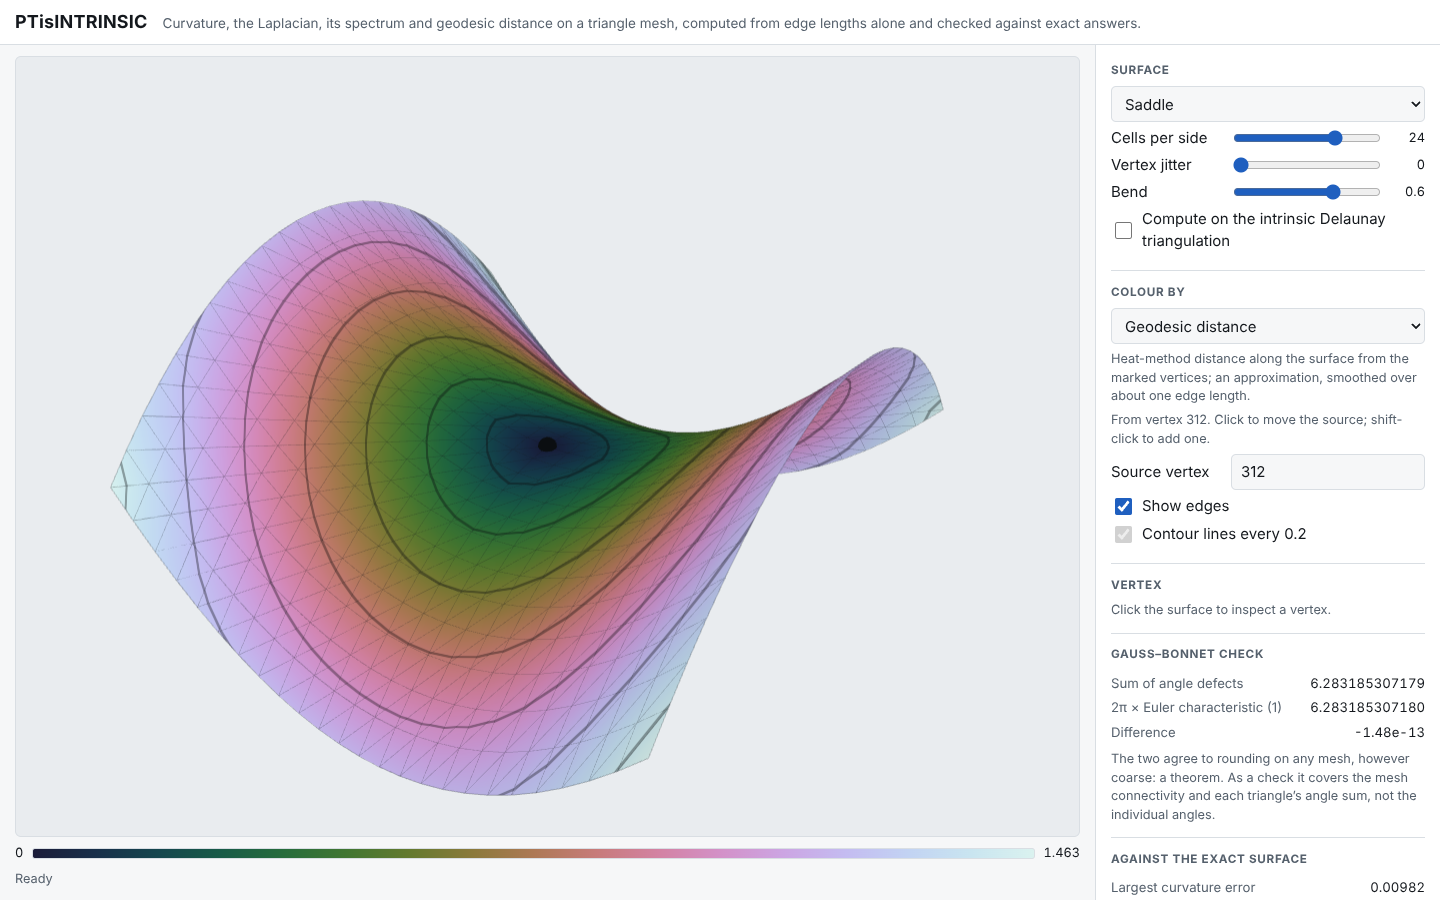
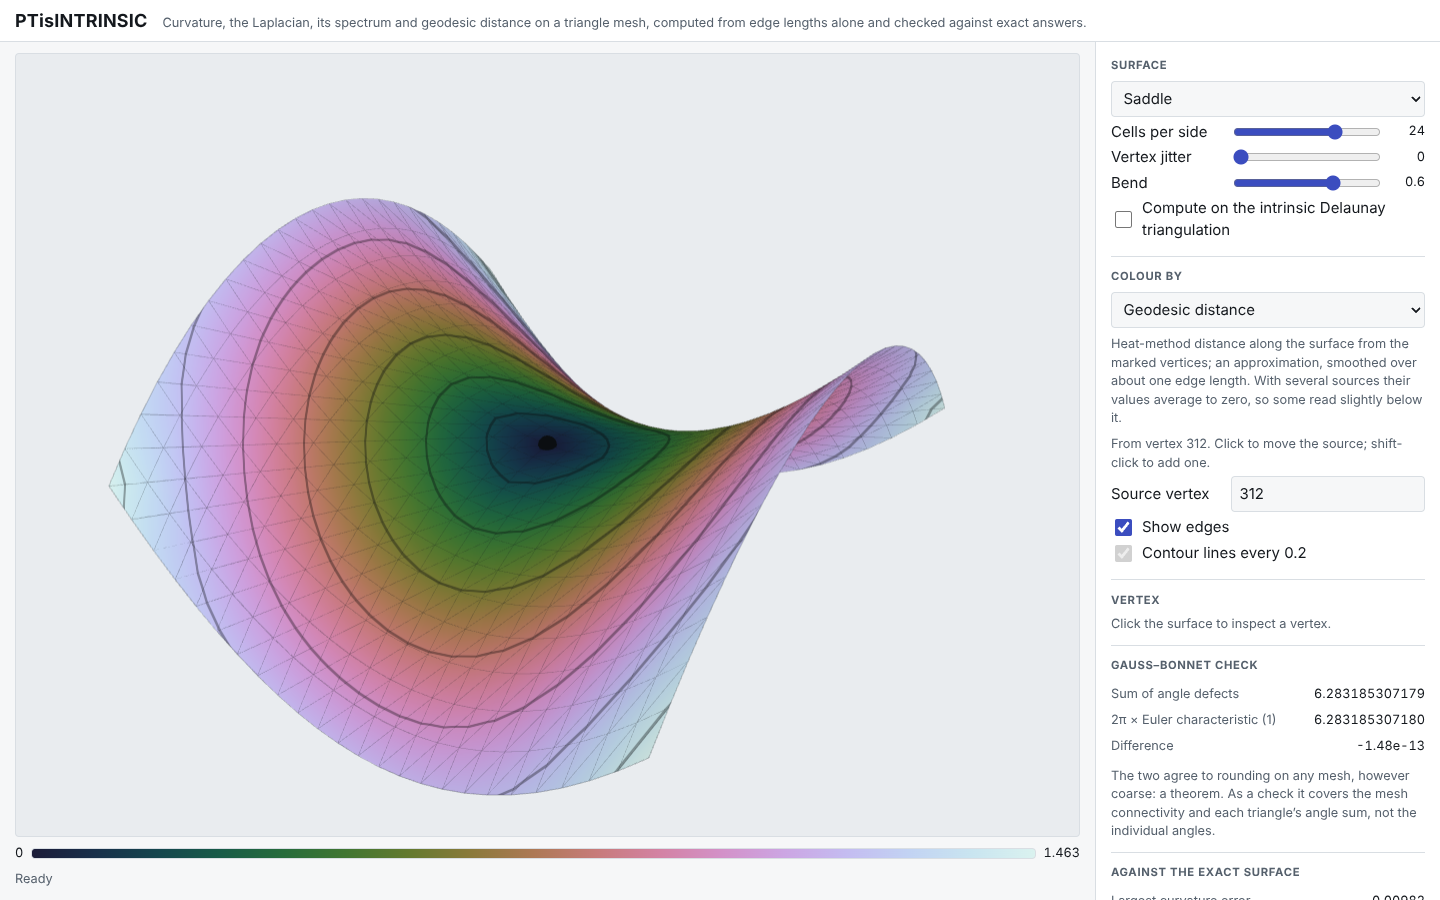
Put the stylesheet on one radius, type scale and spacing scale
The accent is now the cool end of the diverging colour map, and the
stylesheet says why the layout and the system typeface were chosen. The
README screenshot is retaken.

Claude-Session: https://claude.ai/code/session_018DZH5v2KzWCQaHqtZ7aifh

diff --git a/src/app/styles.css b/src/app/styles.css
@@ -1,3 +1,8 @@
+/*
+ * Laid out like a desktop analysis tool (ParaView, a plotting window): the picture takes the
+ * room and the numbers sit in a narrow side panel. The typeface is the platform's own UI font:
+ * a tool with no brand to carry, and nothing to download before the first number shows.
+ */
 :root {
   color-scheme: light dark;
   --ink: light-dark(#14181d, #e9edf1);
@@ -5,8 +10,21 @@
   --paper: light-dark(#f6f7f8, #101317);
   --card: light-dark(#ffffff, #181c21);
   --rule: light-dark(#d9dee3, #2b323a);
-  --accent: light-dark(#1f5fbf, #7fb0ff);
+  /* The cool end of the diverging colour map (colormap.ts), halfway to white in dark mode. */
+  --accent: light-dark(#3b4dbf, #9da6df);
   --viewport: light-dark(#e9ecef, #0b0d10);
+
+  --radius: 4px;
+  --space-1: 0.25rem;
+  --space-2: 0.5rem;
+  --space-3: 0.75rem;
+  --space-4: 1rem;
+  --space-5: 1.5rem;
+  --space-6: 2rem;
+  --text-label: 0.75rem;
+  --text-small: 0.85rem;
+  --text-title: 1.2rem;
+
   font-family:
     system-ui,
     -apple-system,
@@ -40,22 +58,22 @@ body {
   display: flex;
   flex-wrap: wrap;
   align-items: baseline;
-  gap: 0.25rem 1rem;
-  padding: 0.6rem 1rem;
+  gap: var(--space-1) var(--space-4);
+  padding: var(--space-2) var(--space-4);
   border-bottom: 1px solid var(--rule);
   background: var(--card);
 }
 
 h1 {
   margin: 0;
-  font-size: 1.2rem;
+  font-size: var(--text-title);
   letter-spacing: 0.01em;
 }
 
 .masthead p {
   margin: 0;
   color: var(--muted);
-  font-size: 0.9rem;
+  font-size: var(--text-small);
 }
 
 .stage {
@@ -63,8 +81,8 @@ h1 {
   display: flex;
   flex-direction: column;
   min-height: 0;
-  padding: 0.75rem 1rem;
-  gap: 0.5rem;
+  padding: var(--space-3) var(--space-4);
+  gap: var(--space-2);
 }
 
 .viewport {
@@ -72,7 +90,7 @@ h1 {
   flex: 1;
   min-height: 0;
   border: 1px solid var(--rule);
-  border-radius: 6px;
+  border-radius: var(--radius);
   overflow: hidden;
   background: var(--viewport);
 }
@@ -91,41 +109,41 @@ h1 {
   display: grid;
   place-items: center;
   margin: 0;
-  padding: 1rem;
+  padding: var(--space-4);
   text-align: center;
 }
 
 .legend {
   display: flex;
   align-items: center;
-  gap: 0.6rem;
+  gap: var(--space-2);
   font-variant-numeric: tabular-nums;
-  font-size: 0.85rem;
+  font-size: var(--text-small);
 }
 
 .legend-bar {
   flex: 1;
-  height: 0.7rem;
-  border-radius: 3px;
+  height: var(--space-3);
+  border-radius: var(--radius);
   border: 1px solid var(--rule);
 }
 
 .status {
   margin: 0;
-  font-size: 0.85rem;
+  font-size: var(--text-small);
   color: var(--muted);
 }
 
 .panel {
   grid-area: panel;
   overflow-y: auto;
-  padding: 0.25rem 1rem 2rem;
+  padding: var(--space-1) var(--space-4) var(--space-6);
   border-left: 1px solid var(--rule);
   background: var(--card);
 }
 
 .panel section {
-  padding: 0.85rem 0;
+  padding: var(--space-3) 0;
   border-bottom: 1px solid var(--rule);
 }
 
@@ -134,8 +152,8 @@ h1 {
 }
 
 h2 {
-  margin: 0 0 0.5rem;
-  font-size: 0.78rem;
+  margin: 0 0 var(--space-2);
+  font-size: var(--text-label);
   font-weight: 650;
   letter-spacing: 0.06em;
   text-transform: uppercase;
@@ -143,8 +161,8 @@ h2 {
 }
 
 .note {
-  margin: 0.4rem 0 0;
-  font-size: 0.85rem;
+  margin: var(--space-2) 0 0;
+  font-size: var(--text-small);
   color: var(--muted);
 }
 
@@ -153,8 +171,8 @@ h2 {
 .check {
   display: grid;
   align-items: center;
-  gap: 0.5rem;
-  margin: 0.35rem 0;
+  gap: var(--space-2);
+  margin: var(--space-1) 0;
 }
 
 .slider {
@@ -166,7 +184,7 @@ h2 {
   white-space: nowrap;
   text-align: right;
   font-variant-numeric: tabular-nums;
-  font-size: 0.85rem;
+  font-size: var(--text-small);
 }
 
 .field.inline {
@@ -183,10 +201,10 @@ button,
 input[type='number'] {
   font: inherit;
   color: inherit;
-  padding: 0.4rem 0.6rem;
+  padding: var(--space-1) var(--space-2);
   min-height: 2.4rem;
   border: 1px solid var(--rule);
-  border-radius: 5px;
+  border-radius: var(--radius);
   background: var(--paper);
 }
 
@@ -221,7 +239,7 @@ input[type='checkbox'] {
 
 .buttons {
   display: flex;
-  gap: 0.5rem;
+  gap: var(--space-2);
 }
 
 .buttons button {
@@ -235,9 +253,9 @@ dl {
 .row {
   display: flex;
   justify-content: space-between;
-  gap: 0.75rem;
-  padding: 0.18rem 0;
-  font-size: 0.88rem;
+  gap: var(--space-3);
+  padding: var(--space-1) 0;
+  font-size: var(--text-small);
 }
 
 dt {
@@ -252,11 +270,11 @@ dd {
 }
 
 figure {
-  margin: 0.75rem 0 0;
+  margin: var(--space-3) 0 0;
 }
 
 figcaption {
-  font-size: 0.8rem;
+  font-size: var(--text-small);
   color: var(--muted);
 }
 
@@ -277,6 +295,7 @@ svg {
   stroke: var(--rule);
 }
 
+/* In the chart's own units (a 320-wide view box drawn at about panel width). */
 .axes text {
   fill: var(--muted);
   font-size: 9.5px;
@@ -295,13 +314,13 @@ svg {
 }
 
 .signature {
-  padding: 1.25rem 0 0.5rem;
+  padding: var(--space-5) 0 var(--space-2);
 }
 
 .signature pre {
   margin: 0;
   font:
-    0.78rem/1.15 ui-monospace,
+    var(--text-label) / 1.15 ui-monospace,
     'SFMono-Regular',
     Menlo,
     Consolas,
@@ -336,9 +355,5 @@ svg {
     border-left: 0;
     border-top: 1px solid var(--rule);
     overflow: visible;
-  }
-
-  .masthead p {
-    font-size: 0.82rem;
   }
 }
